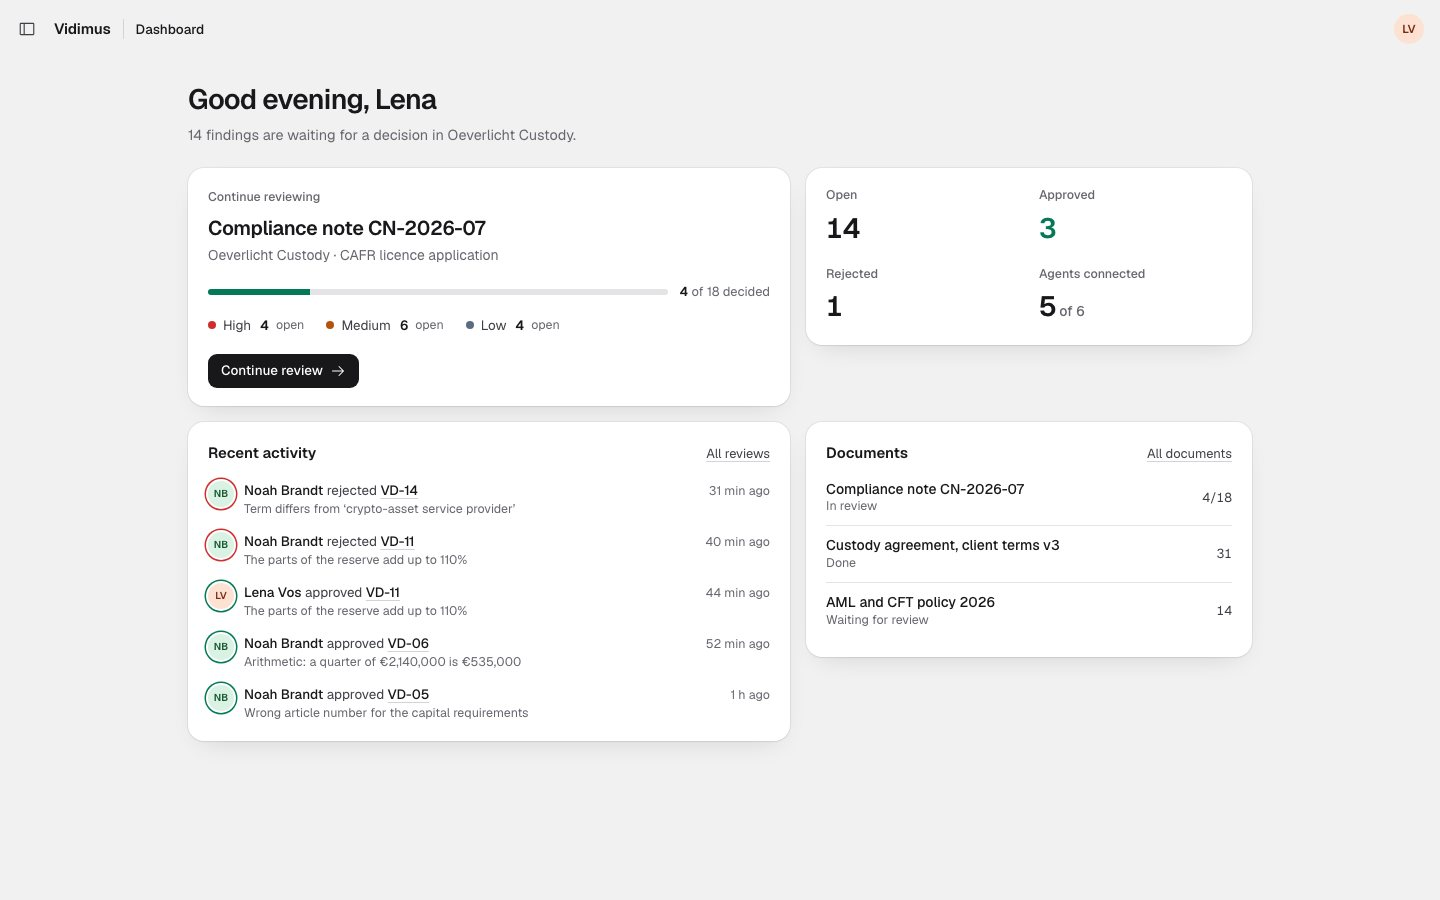
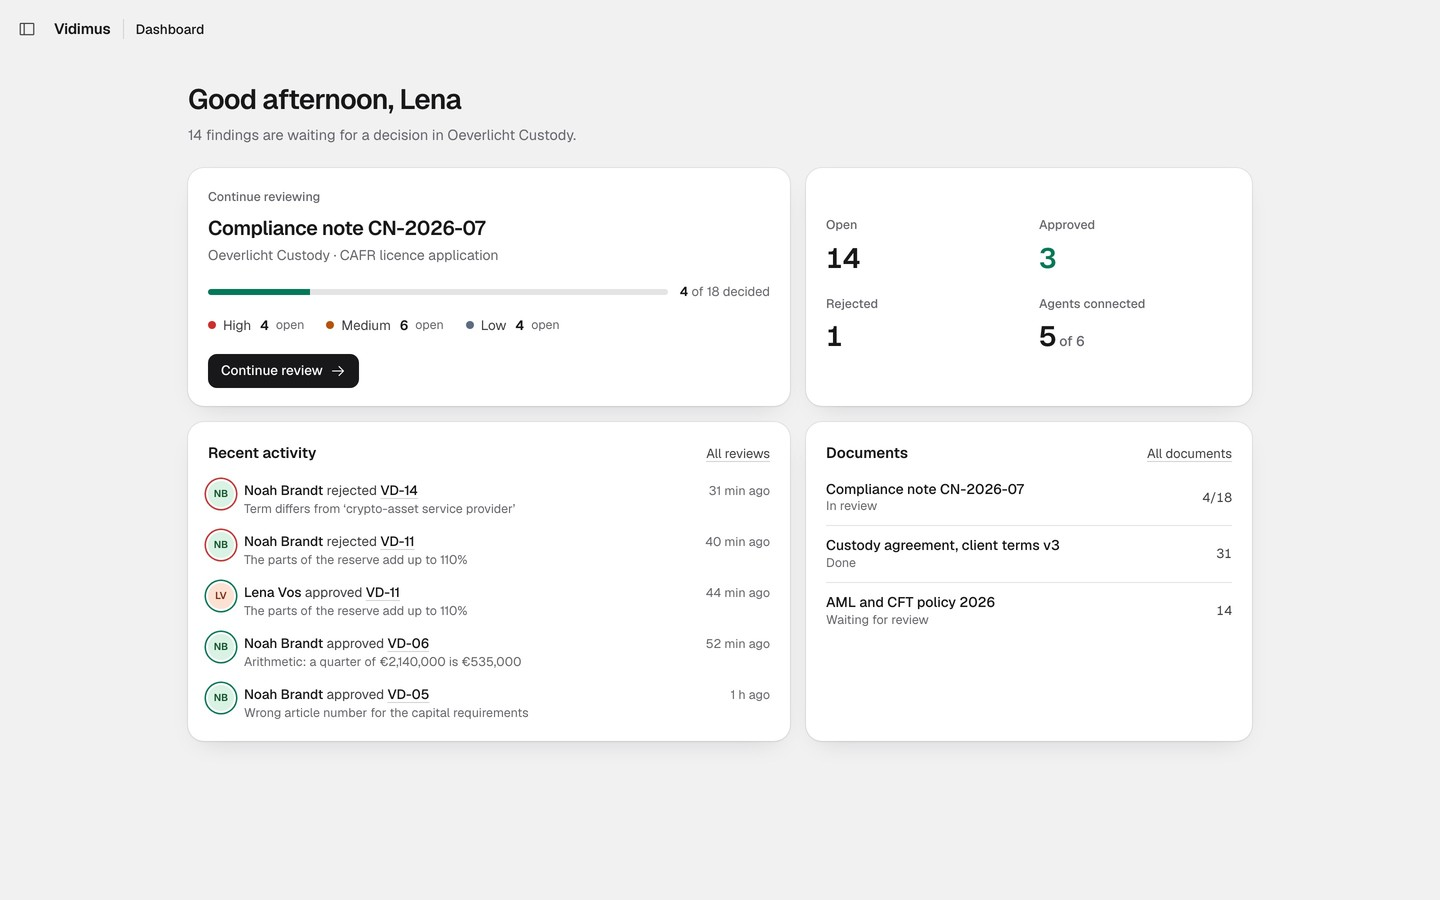
feat(lab): on phones the findings are a full page, with a way back
Andy: make the finding a full page, find a way back to the document but not a
slide up. On phones the panel is a bar at the foot of the document; opened, it
is a page under the top bar, its header's Document button goes back, and the
two cross-fade. The blur behind the old sheet goes. On the dashboard, the cards
of a row share its height. README line and two screenshots follow.

diff --git a/lab/v1/index.html b/lab/v1/index.html
@@ -446,7 +446,7 @@ body.dock-off .dockshow:active{transform:translateX(-50%) scale(.94)}
 .empty .ic{width:26px;height:26px;color:var(--line-2);margin-bottom:4px}
 .empty b{color:var(--ink);font-weight:500}
 .empty .btn{margin-top:8px}
-.sheetbtn,#peek{display:none}
+.sheetbtn,#peek,.backdoc{display:none}
 
 /* ---------- dashboard, reviews, documents, agents ---------- */
 .page{max-width:1120px;margin:0 auto;padding:12px 28px 48px}
@@ -457,7 +457,7 @@ body.dock-off .dockshow:active{transform:translateX(-50%) scale(.94)}
 .dhead{display:flex;align-items:baseline;justify-content:space-between;gap:12px;margin-bottom:12px}
 .dhead h3{margin:0;font-size:15px;font-weight:600}
 .dlabel{font-size:12.5px;font-weight:500;color:var(--muted)}
-.dash{display:grid;grid-template-columns:minmax(0,1.35fr) minmax(0,1fr);gap:16px;align-items:start}
+.dash{display:grid;grid-template-columns:minmax(0,1.35fr) minmax(0,1fr);gap:16px;align-items:stretch}   /* a row's cards share its height */
 .dcont h2{font-size:20px;font-weight:600;letter-spacing:-.02em;margin:6px 0 2px}
 .dsub{margin:0 0 16px;color:var(--muted)}
 .dprog{display:flex;align-items:center;gap:12px;font-size:13px;color:var(--muted);margin-bottom:14px}
@@ -467,7 +467,7 @@ body.dock-off .dockshow:active{transform:translateX(-50%) scale(.94)}
 .dsev span{display:inline-flex;align-items:center;gap:7px}
 .dsev b{font-weight:600;color:var(--ink);margin-left:2px}
 .dsev small{color:var(--muted);font-size:12.5px}
-.dstats{display:grid;grid-template-columns:1fr 1fr;gap:16px 20px}
+.dstats{display:grid;grid-template-columns:1fr 1fr;gap:16px 20px;align-content:center}   /* the figures sit in the middle of a stretched card */
 .dstat{display:flex;flex-direction:column;gap:2px}
 .dstat span{font-size:12.5px;color:var(--muted);font-weight:500}
 .dstat b{font-size:28px;font-weight:600;letter-spacing:-.025em;font-variant-numeric:tabular-nums}
@@ -620,23 +620,25 @@ body.dock-off .dockshow:active{transform:translateX(-50%) scale(.94)}
   .pg{margin-bottom:12px}
   /* no page and zoom bar on a phone: the pages scroll natively and pinch zooms */
   .dock,.dockshow,body.dock-off .dockshow{display:none}
-  /* with the findings sheet open, the document behind it blurs, as under an iOS sheet */
-  #scroller{transition:filter .25s var(--ease)}
-  body.sheet-open #scroller{filter:blur(6px) saturate(.9)}
   .mk{right:3px}
-  #panel{display:flex;flex-direction:column;position:fixed;left:0;right:0;bottom:0;height:min(88dvh,780px);z-index:30;gap:0;padding:0;border-radius:20px 20px 0 0;background:var(--surface);
-    box-shadow:0 -12px 36px -12px rgba(24,24,27,.28),0 -1px 0 var(--line);overflow-y:auto;
-    transform:translateY(calc(100% - var(--peek)));transition:transform .32s cubic-bezier(.32,.72,0,1)}
-  body.sheet-open #panel{transform:none}
-  body:not(.sheet-open) #panel{overflow:hidden}
-  body:not(.sheet-open) #panel > :not(.sheetbtn):not(#peek){visibility:hidden}
+  /* the findings, a full page on a phone (Andy, 22 Nov: « make the finding a full page … I don't want it to be a slide
+     up »). Folded, the panel is the bar at the foot of the document; open, it is a page under the top bar, and the
+     « Document » button in its header goes back. Between the two it cross-fades; nothing slides. */
+  #panel{display:flex;flex-direction:column;position:fixed;left:0;right:0;top:auto;bottom:0;height:var(--peek);z-index:30;gap:0;padding:0;border-radius:0;background:var(--surface);
+    box-shadow:0 -1px 0 var(--line),0 -10px 28px -16px rgba(24,24,27,.22);overflow:hidden}
+  body.sheet-open #panel{top:var(--top);height:auto;box-shadow:none;overflow-y:auto;animation:fadein .2s var(--ease)}
+  body.doc-back #scroller{animation:fadein .2s var(--ease)}
+  @keyframes fadein{from{opacity:0}to{opacity:1}}
+  body:not(.sheet-open) #panel > :not(#peek){display:none}
   #panel .fcard{box-shadow:none;border-radius:0;max-height:none;overflow:visible;background:var(--surface)}
-  #findhead{position:static;padding:4px 14px 12px;border-bottom:1px solid var(--line)}
+  #findhead{position:sticky;top:0;z-index:2;padding:8px 14px 12px;background:var(--surface);border-bottom:1px solid var(--line)}   /* stays while the list scrolls */
   #detail{flex:none;background:var(--surface-2) !important;border-bottom:1px solid var(--line)}
-  .sheetbtn{display:flex;justify-content:center;align-items:center;flex:none;height:26px;border:0;background:none;width:100%}
-  .sheetbtn .handle{width:40px;height:4px;border-radius:2px;background:var(--line-2)}
+  .backdoc{display:inline-flex;align-items:center;gap:4px;flex:none;height:34px;margin-left:-8px;padding:0 8px 0 4px;border:0;border-radius:var(--r-sm);background:none;
+    color:var(--ink);font:500 15px/1 var(--sans);cursor:pointer}
+  .backdoc .ic{width:18px;height:18px}
+  .backdoc:active{background:var(--hover)}
   #peek{display:grid;grid-template-columns:24px minmax(0,1fr);gap:10px 12px;align-items:start;align-content:start;flex:none;
-    padding:2px 16px 16px;min-height:calc(var(--peek) - 26px);cursor:pointer}
+    padding:16px 16px 16px;min-height:var(--peek);cursor:pointer}
   #peek .ptext{font-size:14px;line-height:1.4;color:var(--ink-2);display:-webkit-box;-webkit-line-clamp:2;-webkit-box-orient:vertical;overflow:hidden}
   #peek .ptext:first-child{grid-column:1 / -1}
   #peek .ptext b{font-weight:500;color:var(--ink)}
@@ -738,7 +740,7 @@ body.dock-off .dockshow:active{transform:translateX(-50%) scale(.94)}
           <div id="pages"></div>
           <aside id="lane" aria-label="Findings">
             <div id="lanehead" class="lanehead"><section id="findhead" class="fcard" aria-label="Search and filter">
-              <div class="fhead"><h2>Findings</h2><div data-searchbox></div></div>
+              <div class="fhead"><button id="backdoc" class="backdoc" type="button"><svg class="ic" aria-hidden="true"><use href="#i-arrow-left"/></svg>Document</button><h2>Findings</h2><div data-searchbox></div></div>
               <div data-filters data-search="none"></div>
               <div id="tabs" class="fdrop"></div>
             </section></div>
@@ -1542,7 +1544,12 @@ function renderPeek(){
   $('[data-open]', host).onclick = e => { e.stopPropagation(); setSheet(true); };
 }
 function setSheet(open){
+  const was = document.body.classList.contains('sheet-open');
   document.body.classList.toggle('sheet-open', open);
+  if (was && !open){   // back to the document: it fades in, as the findings page did
+    document.body.classList.add('doc-back'); clearTimeout(setSheet.t);
+    setSheet.t = setTimeout(() => document.body.classList.remove('doc-back'), 240);
+  }
   const b = $('#sheetbtn'); if (b) b.setAttribute('aria-expanded', open);
   if (!open || !INLINE){ const p = $('#panel'); if (p) p.scrollTop = 0; }   // folded, or the pinned card first
   else if (open && sel){
@@ -1552,10 +1559,8 @@ function setSheet(open){
 }
 $('#sheetbtn') && ($('#sheetbtn').onclick = () => setSheet(!document.body.classList.contains('sheet-open')));
 $('#peek') && ($('#peek').onclick = e => { if (!e.target.closest('button')) setSheet(true); });
-// a phone: a tap on the blurred document above the open sheet closes the sheet, nothing else
-$('#scroller')?.addEventListener('click', e => {
-  if (MOBILE.matches && document.body.classList.contains('sheet-open')){ e.stopPropagation(); e.preventDefault(); setSheet(false); }
-}, true);
+// a phone: the findings page's « Document » button goes back to the document
+$('#backdoc') && ($('#backdoc').onclick = () => setSheet(false));
 
 /* ---------- selection ---------- */
 function select(id, from){

diff --git a/lab/v1/template.html b/lab/v1/template.html
@@ -446,7 +446,7 @@ body.dock-off .dockshow:active{transform:translateX(-50%) scale(.94)}
 .empty .ic{width:26px;height:26px;color:var(--line-2);margin-bottom:4px}
 .empty b{color:var(--ink);font-weight:500}
 .empty .btn{margin-top:8px}
-.sheetbtn,#peek{display:none}
+.sheetbtn,#peek,.backdoc{display:none}
 
 /* ---------- dashboard, reviews, documents, agents ---------- */
 .page{max-width:1120px;margin:0 auto;padding:12px 28px 48px}
@@ -457,7 +457,7 @@ body.dock-off .dockshow:active{transform:translateX(-50%) scale(.94)}
 .dhead{display:flex;align-items:baseline;justify-content:space-between;gap:12px;margin-bottom:12px}
 .dhead h3{margin:0;font-size:15px;font-weight:600}
 .dlabel{font-size:12.5px;font-weight:500;color:var(--muted)}
-.dash{display:grid;grid-template-columns:minmax(0,1.35fr) minmax(0,1fr);gap:16px;align-items:start}
+.dash{display:grid;grid-template-columns:minmax(0,1.35fr) minmax(0,1fr);gap:16px;align-items:stretch}   /* a row's cards share its height */
 .dcont h2{font-size:20px;font-weight:600;letter-spacing:-.02em;margin:6px 0 2px}
 .dsub{margin:0 0 16px;color:var(--muted)}
 .dprog{display:flex;align-items:center;gap:12px;font-size:13px;color:var(--muted);margin-bottom:14px}
@@ -467,7 +467,7 @@ body.dock-off .dockshow:active{transform:translateX(-50%) scale(.94)}
 .dsev span{display:inline-flex;align-items:center;gap:7px}
 .dsev b{font-weight:600;color:var(--ink);margin-left:2px}
 .dsev small{color:var(--muted);font-size:12.5px}
-.dstats{display:grid;grid-template-columns:1fr 1fr;gap:16px 20px}
+.dstats{display:grid;grid-template-columns:1fr 1fr;gap:16px 20px;align-content:center}   /* the figures sit in the middle of a stretched card */
 .dstat{display:flex;flex-direction:column;gap:2px}
 .dstat span{font-size:12.5px;color:var(--muted);font-weight:500}
 .dstat b{font-size:28px;font-weight:600;letter-spacing:-.025em;font-variant-numeric:tabular-nums}
@@ -620,23 +620,25 @@ body.dock-off .dockshow:active{transform:translateX(-50%) scale(.94)}
   .pg{margin-bottom:12px}
   /* no page and zoom bar on a phone: the pages scroll natively and pinch zooms */
   .dock,.dockshow,body.dock-off .dockshow{display:none}
-  /* with the findings sheet open, the document behind it blurs, as under an iOS sheet */
-  #scroller{transition:filter .25s var(--ease)}
-  body.sheet-open #scroller{filter:blur(6px) saturate(.9)}
   .mk{right:3px}
-  #panel{display:flex;flex-direction:column;position:fixed;left:0;right:0;bottom:0;height:min(88dvh,780px);z-index:30;gap:0;padding:0;border-radius:20px 20px 0 0;background:var(--surface);
-    box-shadow:0 -12px 36px -12px rgba(24,24,27,.28),0 -1px 0 var(--line);overflow-y:auto;
-    transform:translateY(calc(100% - var(--peek)));transition:transform .32s cubic-bezier(.32,.72,0,1)}
-  body.sheet-open #panel{transform:none}
-  body:not(.sheet-open) #panel{overflow:hidden}
-  body:not(.sheet-open) #panel > :not(.sheetbtn):not(#peek){visibility:hidden}
+  /* the findings, a full page on a phone (Andy, 22 Nov: « make the finding a full page … I don't want it to be a slide
+     up »). Folded, the panel is the bar at the foot of the document; open, it is a page under the top bar, and the
+     « Document » button in its header goes back. Between the two it cross-fades; nothing slides. */
+  #panel{display:flex;flex-direction:column;position:fixed;left:0;right:0;top:auto;bottom:0;height:var(--peek);z-index:30;gap:0;padding:0;border-radius:0;background:var(--surface);
+    box-shadow:0 -1px 0 var(--line),0 -10px 28px -16px rgba(24,24,27,.22);overflow:hidden}
+  body.sheet-open #panel{top:var(--top);height:auto;box-shadow:none;overflow-y:auto;animation:fadein .2s var(--ease)}
+  body.doc-back #scroller{animation:fadein .2s var(--ease)}
+  @keyframes fadein{from{opacity:0}to{opacity:1}}
+  body:not(.sheet-open) #panel > :not(#peek){display:none}
   #panel .fcard{box-shadow:none;border-radius:0;max-height:none;overflow:visible;background:var(--surface)}
-  #findhead{position:static;padding:4px 14px 12px;border-bottom:1px solid var(--line)}
+  #findhead{position:sticky;top:0;z-index:2;padding:8px 14px 12px;background:var(--surface);border-bottom:1px solid var(--line)}   /* stays while the list scrolls */
   #detail{flex:none;background:var(--surface-2) !important;border-bottom:1px solid var(--line)}
-  .sheetbtn{display:flex;justify-content:center;align-items:center;flex:none;height:26px;border:0;background:none;width:100%}
-  .sheetbtn .handle{width:40px;height:4px;border-radius:2px;background:var(--line-2)}
+  .backdoc{display:inline-flex;align-items:center;gap:4px;flex:none;height:34px;margin-left:-8px;padding:0 8px 0 4px;border:0;border-radius:var(--r-sm);background:none;
+    color:var(--ink);font:500 15px/1 var(--sans);cursor:pointer}
+  .backdoc .ic{width:18px;height:18px}
+  .backdoc:active{background:var(--hover)}
   #peek{display:grid;grid-template-columns:24px minmax(0,1fr);gap:10px 12px;align-items:start;align-content:start;flex:none;
-    padding:2px 16px 16px;min-height:calc(var(--peek) - 26px);cursor:pointer}
+    padding:16px 16px 16px;min-height:var(--peek);cursor:pointer}
   #peek .ptext{font-size:14px;line-height:1.4;color:var(--ink-2);display:-webkit-box;-webkit-line-clamp:2;-webkit-box-orient:vertical;overflow:hidden}
   #peek .ptext:first-child{grid-column:1 / -1}
   #peek .ptext b{font-weight:500;color:var(--ink)}
@@ -738,7 +740,7 @@ body.dock-off .dockshow:active{transform:translateX(-50%) scale(.94)}
           <div id="pages"></div>
           <aside id="lane" aria-label="Findings">
             <div id="lanehead" class="lanehead"><section id="findhead" class="fcard" aria-label="Search and filter">
-              <div class="fhead"><h2>Findings</h2><div data-searchbox></div></div>
+              <div class="fhead"><button id="backdoc" class="backdoc" type="button"><svg class="ic" aria-hidden="true"><use href="#i-arrow-left"/></svg>Document</button><h2>Findings</h2><div data-searchbox></div></div>
               <div data-filters data-search="none"></div>
               <div id="tabs" class="fdrop"></div>
             </section></div>

diff --git a/lab/desk.js b/lab/desk.js
@@ -761,7 +761,12 @@ function renderPeek(){
   $('[data-open]', host).onclick = e => { e.stopPropagation(); setSheet(true); };
 }
 function setSheet(open){
+  const was = document.body.classList.contains('sheet-open');
   document.body.classList.toggle('sheet-open', open);
+  if (was && !open){   // back to the document: it fades in, as the findings page did
+    document.body.classList.add('doc-back'); clearTimeout(setSheet.t);
+    setSheet.t = setTimeout(() => document.body.classList.remove('doc-back'), 240);
+  }
   const b = $('#sheetbtn'); if (b) b.setAttribute('aria-expanded', open);
   if (!open || !INLINE){ const p = $('#panel'); if (p) p.scrollTop = 0; }   // folded, or the pinned card first
   else if (open && sel){
@@ -771,10 +776,8 @@ function setSheet(open){
 }
 $('#sheetbtn') && ($('#sheetbtn').onclick = () => setSheet(!document.body.classList.contains('sheet-open')));
 $('#peek') && ($('#peek').onclick = e => { if (!e.target.closest('button')) setSheet(true); });
-// a phone: a tap on the blurred document above the open sheet closes the sheet, nothing else
-$('#scroller')?.addEventListener('click', e => {
-  if (MOBILE.matches && document.body.classList.contains('sheet-open')){ e.stopPropagation(); e.preventDefault(); setSheet(false); }
-}, true);
+// a phone: the findings page's « Document » button goes back to the document
+$('#backdoc') && ($('#backdoc').onclick = () => setSheet(false));
 
 /* ---------- selection ---------- */
 function select(id, from){

diff --git a/README.md b/README.md
@@ -16,7 +16,7 @@ A review desk for regulatory documents. AI models and language tools read the do
 - **Dashboard** (progress, open findings by severity, recent decisions), **Reviews** (every finding and the full history of who approved, rejected or edited what) and **Documents**.
 - **Export** of every finding, or only the approved ones, with its decision and who made it, as CSV or as a Markdown report.
 - **Keyboard:** `j`/`k` next and previous, `a` approve, `x` reject, `e` edit, `/` search, `Esc` folds the open card. A bar under the page shows them with the page and zoom controls; it hides behind a small arrow.
-- **Phone:** the page at its full width, as phone PDF readers show it (pinch to zoom in), each badge in the page's margin level with its line, the findings in a sheet that slides up over the blurred page, approve or reject from its peek.
+- **Phone:** the page at its full width, as phone PDF readers show it (pinch to zoom in), each badge in the page's margin level with its line. The findings open as a full page under the top bar, with a "Document" button back to the page (nothing slides up); approve or reject from the bar at the page's foot.
 
 | | |
 |---|---|
